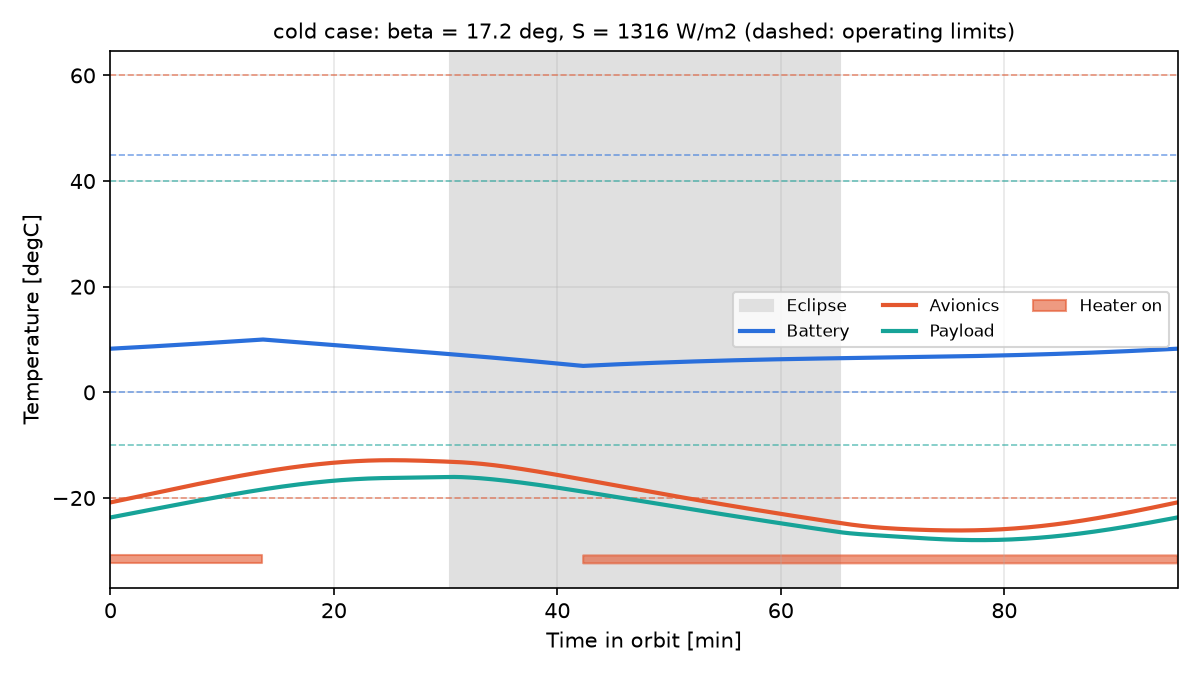
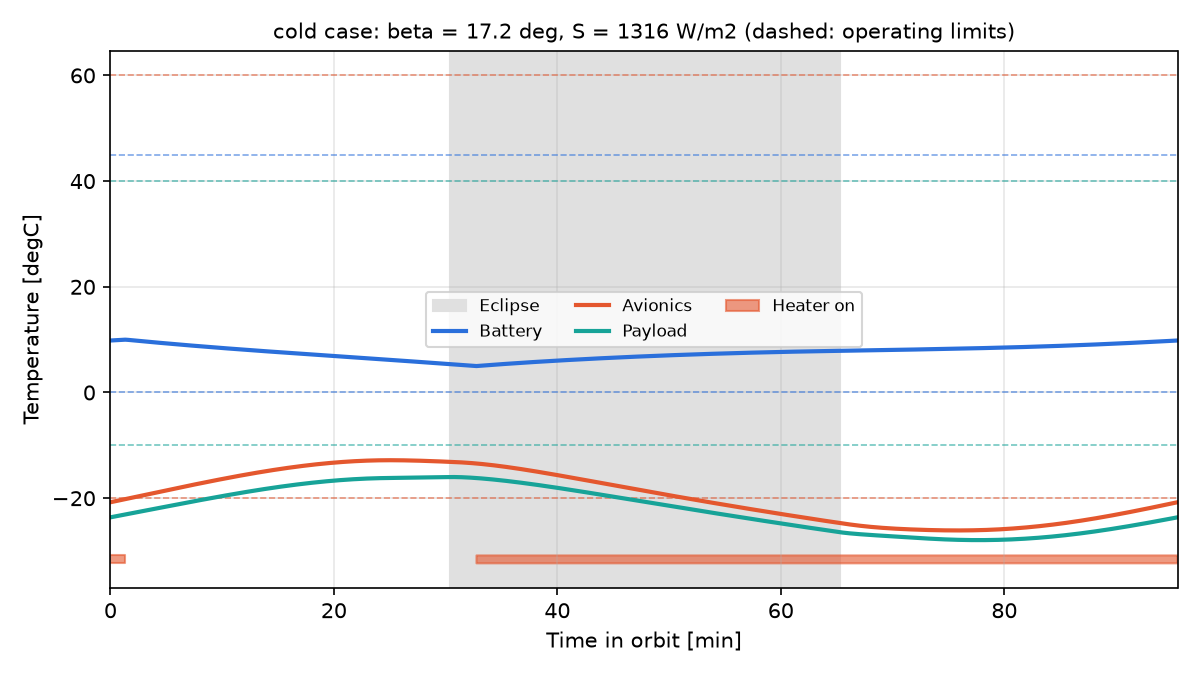
Handle thermostat limit cycles: quasi-periodic window mode with envelope temperatures, periodicity reported separately from closure, heater duty margin (V7, V8)

diff --git a/src/cubesat_thermal/model.py b/src/cubesat_thermal/model.py
@@ -48,19 +48,26 @@ class Result:
     case: Case
     nodes: list[str]
     period_s: float
-    t: np.ndarray                     # [s], last (periodic) orbit
-    T: dict[str, np.ndarray]          # [degC]
+    t: np.ndarray                     # [s], last orbit
+    T: dict[str, np.ndarray]          # [degC], last orbit
     eclipse: np.ndarray               # bool per sample
     heater_on: np.ndarray             # bool per sample (first heater)
-    energy: dict                      # orbit-integrated energy balance [J] and averages [W]
-    orbits: int
-    converged: bool
+    energy: dict                      # last-orbit energy balance [J] and averages [W]
+    orbits: int                       # total orbits integrated
+    status: str                       # "periodic" | "quasi_periodic" | "not_converged"
+    window_orbits: int | None = None          # orbits per window (window mode only)
+    window_periodicity_pct: float | None = None   # |sum dU| / sum E_in over the last window
+    T_env: dict[str, tuple[float, float]] | None = None   # last-window envelope [degC]
+
+    @property
+    def converged(self) -> bool:
+        return self.status in ("periodic", "quasi_periodic")
 
     def tmin(self, node: str) -> float:
-        return float(self.T[node].min())
+        return self.T_env[node][0] if self.T_env else float(self.T[node].min())
 
     def tmax(self, node: str) -> float:
-        return float(self.T[node].max())
+        return self.T_env[node][1] if self.T_env else float(self.T[node].max())
 
     def summary(self) -> dict:
         return {n: (round(self.tmin(n), 2), round(self.tmax(n), 2)) for n in self.nodes}
@@ -163,7 +170,19 @@ class ThermalModel:
 
     # ------------------------------------------------------------------ solution
     def run(self, case: Case | str, max_orbits: int = 40, tol_k: float = 0.01,
+            tol_periodicity: float = 1e-4, window_orbits: int = 10, max_windows: int = 6,
+            tol_window_periodicity: float = 1e-3, tol_envelope_k: float = 0.1,
             n_out: int = 721, rtol: float = 1e-7, atol: float = 1e-6) -> Result:
+        """Integrate orbits until the response repeats.
+
+        periodic: per orbit, |dU|/E_in < tol_periodicity and every orbit-mean node temperature
+        changes < tol_k between consecutive orbits.
+        quasi_periodic: if that fails while a heater is active (thermostat limit cycle not
+        commensurate with the orbit), integrate windows of window_orbits orbits until
+        |sum dU|/sum E_in < tol_window_periodicity over a window and the per-node envelope
+        (min and max over the window) changes < tol_envelope_k between consecutive windows.
+        Tmin/Tmax are then the last-window envelope and the heater duty is the window mean.
+        """
         case = self.cases[case] if isinstance(case, str) else case
         P = period_s(self.altitude_m)
         theta, Qtab, parts, ecl_tab, eps_vec, area = self.env_table(case)
@@ -195,10 +214,18 @@ class ThermalModel:
         T = sol0.x
         state = [T[h_idx[k]] - K0 < h.on_c for k, h in enumerate(heaters)]
 
+        e_env_orbit = float(np.trapezoid(Qtab.sum(axis=0), ttab))   # periodic environment [J]
+
         def integrate_orbit(T0, state0, t0, record=False):
-            """Integrate one orbit with thermostat events. Returns end state and segments."""
+            """Integrate one orbit with thermostat events. Returns end state, segments,
+            the orbit integral of T per node [K s], heater on-time per heater [s] and the
+            orbit min/max per node [K] (solver steps include the thermostat switch points)."""
             t, T, st = t0, T0.copy(), list(state0)
             segs = []
+            T_int = np.zeros(n)
+            on_time = np.zeros(len(heaters))
+            T_lo = T0.copy()
+            T_hi = T0.copy()
             t_end = t0 + P
             while t < t_end - 1e-9:
                 events = []
@@ -214,25 +241,71 @@ class ThermalModel:
                               max_step=P / 360, events=events or None, dense_output=record)
                 if record:
                     segs.append((s.t[0], s.t[-1], s.sol, list(st)))
+                T_int += np.trapezoid(s.y, s.t, axis=1)
+                on_time += np.array(st, dtype=float) * (s.t[-1] - s.t[0])
+                T_lo = np.minimum(T_lo, s.y.min(axis=1))
+                T_hi = np.maximum(T_hi, s.y.max(axis=1))
                 t, T = s.t[-1], s.y[:, -1]
                 if s.status == 1:
                     for k, te in enumerate(s.t_events):
                         if len(te):
                             st[k] = not st[k]
-            return T, st, segs
+            return T, st, segs, T_int, on_time, T_lo, T_hi
 
-        converged, orbits = False, 0
+        def e_in_orbit(on):
+            return e_env_orbit + q_diss.sum() * P + float(on @ h_pow)
+
+        # Per-orbit periodicity: converge on the stored-energy change per orbit |dU|/E_in and
+        # on the orbit-mean node temperatures (the orbit-start temperature never repeats when a
+        # thermostat switches at a different phase each orbit).
+        status, orbits = "not_converged", 0
         t0 = 0.0
+        mean_prev = None
+        heater_active = False
         for orbits in range(1, max_orbits + 1):
-            T_new, state, _ = integrate_orbit(T, state, t0)
+            T_new, state, _, T_int, on, _, _ = integrate_orbit(T, state, t0)
             t0 += P
-            dT = np.max(np.abs(T_new - T))
+            mean = T_int / P
+            periodicity = abs(float(self.C @ (T_new - T))) / e_in_orbit(on)
+            heater_active = heater_active or bool(on.sum() > 0)   # switched on in any orbit
             T = T_new
-            if dT < tol_k:
-                converged = True
+            if (mean_prev is not None and periodicity < tol_periodicity
+                    and np.max(np.abs(mean - mean_prev)) < tol_k):
+                status = "periodic"
                 break
-        T_start, state_start = T.copy(), list(state)
-        T_end, _, segs = integrate_orbit(T, state, t0, record=True)
+            mean_prev = mean
+
+        # Window mode: thermostat limit cycle, quasi-periodic response.
+        win = None
+        if status != "periodic" and heater_active:
+            env_prev = None
+            for _ in range(max_windows):
+                T_w0 = T.copy()
+                e_in_w, on_w = 0.0, np.zeros(len(heaters))
+                lo_w, hi_w = np.full(n, np.inf), np.full(n, -np.inf)
+                for _ in range(window_orbits):
+                    T_start, state_start, t_start = T.copy(), list(state), t0
+                    T, state, segs, _, on, lo, hi = integrate_orbit(T, state, t0, record=True)
+                    t0 += P
+                    orbits += 1
+                    e_in_w += e_in_orbit(on)
+                    on_w += on
+                    lo_w, hi_w = np.minimum(lo_w, lo), np.maximum(hi_w, hi)
+                w_per = abs(float(self.C @ (T - T_w0))) / e_in_w
+                env_change = (np.inf if env_prev is None else
+                              max(np.max(np.abs(lo_w - env_prev[0])),
+                                  np.max(np.abs(hi_w - env_prev[1]))))
+                win = {"periodicity": w_per, "lo": lo_w, "hi": hi_w,
+                       "duty": on_w / (window_orbits * P)}
+                if w_per < tol_window_periodicity and env_change < tol_envelope_k:
+                    status = "quasi_periodic"
+                    break
+                env_prev = (lo_w, hi_w)
+            T_end = T
+            t0 = t_start          # the last orbit of the last window is the recorded one
+        else:
+            T_start, state_start = T.copy(), list(state)
+            T_end, _, segs, _, _, _, _ = integrate_orbit(T, state, t0, record=True)
 
         # sample the recorded orbit
         def sample(tt):
@@ -270,12 +343,21 @@ class ThermalModel:
         energy = {
             "absorbed_J": e_abs, "emitted_J": e_emit, "dissipated_J": e_diss, "heater_J": e_heat,
             "in_J": e_in, "out_J": e_out, "dU_J": dU,
-            "closure_pct": abs(e_in - e_out - dU) / e_in * 100.0,
-            "heater_duty": {h.name: on_time[k] / P for k, h in enumerate(heaters)},
+            "closure_pct": abs(e_in - e_out - dU) / e_in * 100.0,      # energy conservation
+            "periodicity_pct": abs(dU) / e_in * 100.0,                  # orbit-to-orbit repeat
+            "heater_duty": {h.name: float(win["duty"][k] if win else on_time[k] / P)
+                            for k, h in enumerate(heaters)},     # window mean in window mode
             "absorbed_avg_W": {nd: sum(v.values()) / P for nd, v in e_abs.items()},
             "emitted_avg_W": {nd: v / P for nd, v in e_emit.items()},
         }
         ecl = np.interp((t_out - t0), ttab, ecl_tab.astype(float)) > 0.5
-        return Result(case=case, nodes=self.nodes, period_s=P, t=t_out - t0,
+        T_env = None
+        if win:
+            T_env = {nd: (float(win["lo"][self.idx[nd]] - K0), float(win["hi"][self.idx[nd]] - K0))
+                     for nd in self.nodes}
+        return Result(case=case, nodes=self.nodes, period_s=float(P), t=t_out - t0,
                       T={nd: Y[self.idx[nd]] - K0 for nd in self.nodes}, eclipse=ecl,
-                      heater_on=H, energy=energy, orbits=orbits, converged=converged)
+                      heater_on=H, energy=energy, orbits=orbits, status=status,
+                      window_orbits=window_orbits if win else None,
+                      window_periodicity_pct=float(win["periodicity"] * 100.0) if win else None,
+                      T_env=T_env)

diff --git a/src/cubesat_thermal/server.py b/src/cubesat_thermal/server.py
@@ -67,8 +67,12 @@ mcp = MCPServer(
         "Orbital thermal analysis of a 3U CubeSat (nodal model, preliminary design). "
         "Temperatures are in degC. Every result carries its assumptions and the orbit "
         "energy-balance closure (energy conservation) and periodicity (|dU|/E_in, how well "
-        "the last orbit repeats): check both, and the converged flag, before trusting "
-        "temperatures. Design changes are made with modify_design, which stores a named "
+        "the last orbit repeats): check both, and the status, before trusting temperatures. "
+        "status is 'periodic', 'quasi_periodic' or 'not_converged'. A quasi_periodic result "
+        "is valid: a thermostat limit cycle does not repeat every orbit, so the run is "
+        "converged over windows of orbits (window_periodicity_pct), Tmin/Tmax are the "
+        "envelope of the last window and heater duty is the window mean; report it as an "
+        "envelope. Only not_converged results must not be trusted. Design changes are made with modify_design, which stores a named "
         "variant; the baseline model is never changed. Mark any statement that does not "
         "come from a tool result as an estimate outside the model."
     ),
@@ -171,7 +175,12 @@ def _closure(r: Result) -> dict[str, Any]:
     return {"closure_pct": round(e["closure_pct"], 4),
             "periodicity_pct": round(e["periodicity_pct"], 4), "in_J": _r(e["in_J"], 1),
             "out_J": _r(e["out_J"], 1), "dU_J": _r(e["dU_J"], 1),
-            "orbits_to_converge": r.orbits, "converged": r.converged}
+            "status": r.status, "converged": r.converged, "orbits": r.orbits,
+            "window_orbits": r.window_orbits,
+            "window_periodicity_pct": (None if r.window_periodicity_pct is None
+                                       else round(r.window_periodicity_pct, 4)),
+            "temperatures_are": ("envelope of the last window" if r.T_env
+                                 else "min/max of the last orbit")}
 
 
 def _out(name: str) -> Path:
@@ -247,7 +256,7 @@ def run_case(case: str, beta_deg: float | None = None,
              overrides: dict[str, Any] | None = None,
              variant: str | None = None) -> dict[str, Any]:
     """Run a design case (e.g. 'hot', 'cold') to a periodic orbit and report min/max
-    temperature per node [degC], orbits to converge and energy-balance closure.
+    temperature per node [degC], convergence status and energy-balance closure.
     beta_deg replaces the case beta angle. overrides may set solar [W/m2], albedo [-],
     olr [W/m2] or optics ('eol_not_converting' | 'bol_converting')."""
     vname, m, r = _run(variant, case, beta_deg, overrides)
@@ -474,8 +483,12 @@ def generate_report(cases: list[str], variant: str | None = None) -> dict[str, A
               f"OLR {cs.olr:g} W/m2, optics `{cs.optics}`, dissipation {cs.dissipation} W.", "",
               f"Energy balance: closure **{e['closure_pct']:.4f} %**, periodicity "
               f"**{e['periodicity_pct']:.4f} %** (in {e['in_J']:.0f} J, out {e['out_J']:.0f} J, "
-              f"dU {e['dU_J']:.1f} J), {r.orbits} orbits"
-              f"{' to converge' if r.converged else ' (NOT converged)'}.", "",
+              f"dU {e['dU_J']:.1f} J). Status **{r.status}** after {r.orbits} orbits"
+              + (f"; window of {r.window_orbits} orbits, window periodicity "
+                 f"**{r.window_periodicity_pct:.4f} %**, temperatures are the window envelope "
+                 "and heater duty is the window mean" if r.window_orbits else "")
+              + ("" if r.converged else " (NOT converged: do not use these temperatures)")
+              + ".", "",
               "| Node | Tmin [degC] | Tmax [degC] | Op limits [degC] | Cold margin | "
               "Hot margin | Status |",
               "|---|---|---|---|---|---|---|"]
@@ -509,8 +522,9 @@ def worst_case_analysis(variant: str = BASELINE) -> str:
 
 1. Call describe_model to state the model, design cases and limits.
 2. Run the hot and cold cases with run_case. Before using any temperature, check that the
-   energy-balance closure is below 0.1 %, that periodicity is below 0.01 % and that the run
-   converged.
+   energy-balance closure is below 0.1 % and the status. 'periodic' needs periodicity below
+   0.01 %; 'quasi_periodic' (thermostat limit cycle) is valid and its temperatures are the
+   window envelope; 'not_converged' must not be used.
 3. Call check_margins for both cases and list every WATCH or FAIL node with its margin.
 4. Call beta_sweep on the hot case over the SSO beta range from orbit_info (and 0-90 deg)
    to confirm that the design-case beta is really the worst case.

diff --git a/src/cubesat_thermal/analysis.py b/src/cubesat_thermal/analysis.py
@@ -33,9 +33,13 @@ def check_margins(model: ThermalModel, result: Result) -> list[dict]:
 
 # ---------------------------------------------------------------------- heater sizing
 def size_heater(model: ThermalModel, case: str = "cold", node: str = "Battery",
-                target_c: float | None = None, tol_w: float = 0.01) -> dict:
+                target_c: float | None = None, tol_w: float = 0.01,
+                duty_margin: float = 0.02, max_steps: int = 100) -> dict:
     """Constant heater power that keeps `node` at or above target (default: op min + uncertainty),
-    then installed power = required / max duty (70 %), verified with the thermostat."""
+    then installed power = required / max duty (70 %), verified with the thermostat. The
+    thermostat holds the node inside its deadband, above the sizing target, so it loses more
+    heat than the constant-power estimate: the installed power is raised in 0.1 W steps until
+    the thermostat duty is at most max_duty - duty_margin."""
     lo = model.limits[node]["op"][0]
     target = lo + model.uncertainty_c if target_c is None else target_c
     base = model.cases[case].dissipation.get(node, 0.0)
@@ -58,12 +62,25 @@ def size_heater(model: ThermalModel, case: str = "cold", node: str = "Battery",
     required = b
     max_duty = model.heaters[0].max_duty if model.heaters else 0.7
     installed = float(np.ceil(required / max_duty * 10) / 10)   # round up to 0.1 W
-    check = model.copy_with(heater_power=installed).run(case)
-    duty = next(iter(check.energy["heater_duty"].values()), 0.0)
+    duty_limit = max_duty - duty_margin
+    for _ in range(max_steps):
+        check = model.copy_with(heater_power=installed).run(case)
+        duty = float(next(iter(check.energy["heater_duty"].values()), 0.0))
+        if duty <= duty_limit:
+            break
+        installed = round(installed + 0.1, 1)
+    else:
+        raise RuntimeError(f"thermostat duty still above {duty_limit:.2f} at {installed} W")
     return {"node": node, "case": case, "target_c": target, "required_w": round(required, 2),
             "installed_w": installed, "duty_with_thermostat": round(duty, 3),
+            "duty_limit": round(duty_limit, 3), "status": check.status,
+            "converged": check.converged,
+            "periodicity_pct": round(check.energy["periodicity_pct"], 4),
+            "window_periodicity_pct": (None if check.window_periodicity_pct is None
+                                       else round(check.window_periodicity_pct, 4)),
             "tmin_with_thermostat_c": round(check.tmin(node), 2),
-            "heater_energy_wh_per_orbit": round(check.energy["heater_J"] / 3600, 3)}
+            # duty is the window mean in quasi-periodic mode, so use it rather than one orbit
+            "heater_energy_wh_per_orbit": round(duty * installed * check.period_s / 3600, 3)}
 
 
 # ---------------------------------------------------------------------- beta sweep

diff --git a/tests/test_validation.py b/tests/test_validation.py
@@ -1,11 +1,11 @@
-"""Validation suite V1-V6 (docs/SPEC.md, section 10)."""
+"""Validation suite V1-V8 (docs/SPEC.md, section 10; V7-V8 added 2026-11-11)."""
 from pathlib import Path
 
 import numpy as np
 import pytest
 
 from cubesat_thermal import (ThermalModel, eclipse_fraction, period_s, radiator_area,
-                             radiator_heater)
+                             radiator_heater, size_heater)
 from cubesat_thermal.environment import Environment
 
 ROOT = Path(__file__).resolve().parents[1]
@@ -78,3 +78,21 @@ def test_v6_time_step_independence(model, case):
     for node in model.nodes:
         assert abs(a.tmin(node) - b.tmin(node)) < 0.1
         assert abs(a.tmax(node) - b.tmax(node)) < 0.1
+
+
+def test_v7_thermostat_limit_cycle_is_quasi_periodic(model):
+    """Cold case, baseline battery mount, 7.7 W thermostatic heater: the thermostat cycle is
+    not commensurate with the orbit, so the run must converge in window mode (quasi_periodic)
+    with window periodicity < 0.1 % and the battery envelope inside the 5-10 degC deadband."""
+    r = model.copy_with(heater_power=7.7).run("cold")
+    assert r.status == "quasi_periodic"
+    assert r.converged
+    assert r.window_periodicity_pct < 0.1
+    assert 4.5 <= r.tmin("Battery") <= r.tmax("Battery") <= 10.5
+    assert r.energy["closure_pct"] < 0.5
+
+
+def test_v8_heater_duty_margin(model):
+    """size_heater leaves at least 2 points of duty margin below max_duty (70 %)."""
+    out = size_heater(model, case="cold", node="Battery")
+    assert out["duty_with_thermostat"] <= 0.68

diff --git a/README.md b/README.md
@@ -13,8 +13,8 @@ The goal is an agent that works like a thermal engineer during preliminary desig
 - **Orbit:** circular sun-synchronous orbit at 550 km, LTDN 10:30. Over a year, β varies between 17.2° and 23.7°
 - **Environment:** direct solar, albedo and Earth IR on every face, cylindrical eclipse, flat-plate view factors to Earth
 - **Cases:** hot (EOL optics, cells not converting, high environment and dissipation) and cold (BOL, cells converting, low environment and dissipation), following the GSFC biasing practice
-- **Control:** thermostatically controlled battery heater (5 °C to 10 °C band) solved with event detection
-- **Acceptance:** predicted temperature ± 5 °C must stay inside operating limits, and heaters must run at 70 % duty or less
+- **Control:** thermostatically controlled battery heater (5 °C to 10 °C band) solved with event detection. When the thermostat cycle does not repeat every orbit, the run converges over 10-orbit windows (quasi-periodic) and reports the window envelope
+- **Acceptance:** predicted temperature ± 5 °C must stay inside operating limits, and heaters are sized to run at 68 % duty or less (70 % maximum minus 2 points of margin)
 
 Everything is defined in [`model.yaml`](model.yaml), so a different spacecraft needs no code changes.
 
@@ -41,12 +41,12 @@ All checks run in `pytest` (`tests/test_validation.py`):
 
 The baseline design runs cold, which is common for small, high-emissivity spacecraft in a mid-morning orbit. The engine quantifies one fix for the battery:
 
-| Battery mount | Heater needed (cold case) | Installed at 70 % duty | Energy per orbit |
-|---|---|---|---|
-| Baseline, G = 0.25 W/K | 5.25 W | 7.6 W | 8.4 Wh |
-| Isolated, G = 0.05 W/K | 1.21 W | 1.8 W | 2.0 Wh (−76 %) |
+| Battery mount | Heater needed (cold case) | Installed | Thermostat duty | Energy per orbit | Convergence |
+|---|---|---|---|---|---|
+| Baseline, G = 0.25 W/K | 5.25 W | 7.6 W | 66.2 % (10-orbit mean) | 8.0 Wh | quasi-periodic |
+| Isolated, G = 0.05 W/K | 1.21 W | 1.9 W | 67.2 % | 2.0 Wh (−75 %) | periodic |
 
-With the isolated mount and the 1.8 W thermostat-controlled heater, the battery stays between 5 °C and 20.5 °C in both cases.
+With the isolated mount and the 1.9 W thermostat-controlled heater, the battery stays between 5 °C and 20.5 °C in both cases.
 
 ![Cold case, isolated battery with heater](results/temperatures_cold_isolated_heater.png)
 

diff --git a/CLAUDE.md b/CLAUDE.md
@@ -36,6 +36,7 @@ Create `src/cubesat_thermal/server.py` with MCPServer (`mcp>=2` package, `from m
 Also expose `model.yaml` as a read-only MCP resource and add a prompt `worst_case_analysis`.
 The server `instructions` must include: "Mark any statement that does not come from a tool result as an estimate outside the model."
 Every run reports both `closure_pct` (energy conservation) and `periodicity_pct` (|dU|/E_in over the last orbit).
+Every run reports `status`: `periodic` | `quasi_periodic` (thermostat limit cycle, converged over 10-orbit windows; Tmin/Tmax are the window envelope and heater duty is the window mean, with `window_orbits` and `window_periodicity_pct`) | `not_converged`. The first two are valid results.
 Register the server in Claude Code with `claude mcp add cubesat-thermal -- uv run --directory <repo> python -m cubesat_thermal.server`.
 
 ## Known limits (v0.1)
